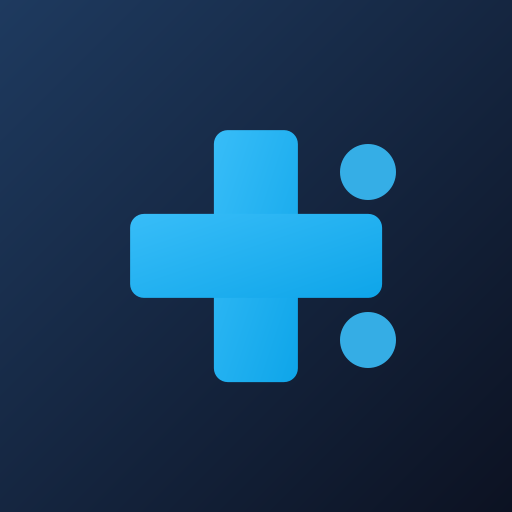
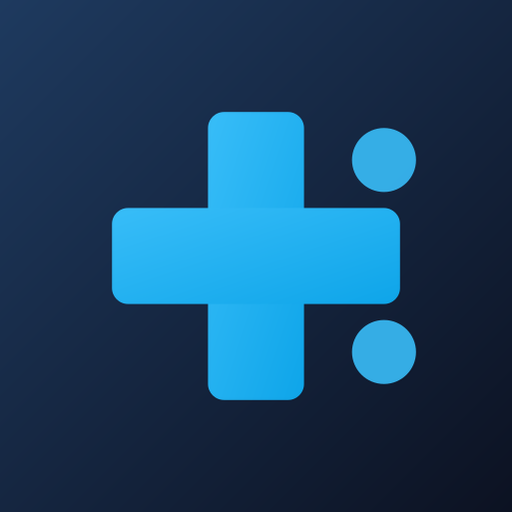
refactor(icones): migrer sur le générateur du socle, et une seule icône Apple (#73)
`scripts/generate-icons.mjs` était la copie locale que `pwa-icons` du socle
remplace. Elle traînait trois choses.

UN SECOND DESSIN, ÉCRIT EN DUR. Le maskable était fabriqué en RÉÉCRIVANT
la croix, les pastilles et les deux dégradés dans un gabarit de chaîne —
une copie de `favicon.svg` qui n'avait aucun moyen de la suivre. Le dessin
vit maintenant dans `public/icon-maskable.svg`, avec DEUX différences
assumées : le `rx` du fond disparaît, et le voile de brillance aussi.

Ce voile — un `rect` blanc à 8 % d'opacité, lui-même arrondi — est ce qui
débordait : son coin tombe à 30,6 du centre pour une limite à 25,6 en
repère 64. La croix, elle, culmine à 19,0 et les pastilles à 24,0. Le
script insérait donc TOUT à 87,5 % pour se protéger du voile, pas de la
croix. Sans lui, aucune réduction n'est nécessaire — mesuré sur le rendu :
191,7 px pour une zone sûre à 204,8, treize pixels de marge.

UNE ICÔNE APPLE QUE RIEN NE PRODUISAIT. `public/apple-touch-icon.png`
n'était listée par aucun script : un fichier orphelin, que personne ne
pouvait régénérer à l'identique. Elle sort désormais de la même source que
le maskable.

CINQ BALISES `apple-touch-icon`, DONT QUATRE TRANSPARENTES. `index.html`
déclarait aussi `icon-192/256/384/512` en `apple-touch-icon`, avec leur
taille. Ce sont les icônes `purpose: any` du manifeste, et elles portent
des coins transparents — mesuré, alpha 0. iOS n'accepte pas la
transparence et la comble lui-même ; il choisit en outre la taille
[…]

Changed region(s): [[0.2188, 0.2188, 0.8125, 0.7812]]

diff --git a/index.html b/index.html
@@ -51,7 +51,7 @@
     <link rel="icon" href="%BASE_URL%favicon.svg" type="image/svg+xml" />
     <link
       rel="icon"
-      href="%BASE_URL%favicon-96.png"
+      href="%BASE_URL%icon-96.png"
       sizes="96x96"
       type="image/png"
     />
@@ -61,27 +61,21 @@
       sizes="192x192"
       type="image/png"
     />
+    <!--
+      UNE SEULE ICÔNE APPLE, ET C'EST LA SEULE QUI SOIT OPAQUE.
+
+      Il y en avait cinq : celle-ci, plus `icon-192/256/384/512` déclarées en
+      `apple-touch-icon` avec leur taille. Ces quatre-là sont les icônes
+      `purpose: any` du manifeste, et elles portent des COINS TRANSPARENTS —
+      mesuré, alpha 0. iOS n'accepte pas la transparence : il la comble
+      lui-même, historiquement par du noir. Il choisit d'ailleurs la taille
+      déclarée la plus proche de celle qu'il veut (180 sur un iPhone récent),
+      donc il prenait volontiers la 192 : un cadre sombre autour de la tuile.
+
+      `apple-touch-icon.png` fait 180 px, sort de `icon-maskable.svg` et n'a pas
+      un pixel transparent. C'est tout ce dont iOS a besoin.
+    -->
     <link rel="apple-touch-icon" href="%BASE_URL%apple-touch-icon.png" />
-    <link
-      rel="apple-touch-icon"
-      sizes="192x192"
-      href="%BASE_URL%icon-192.png"
-    />
-    <link
-      rel="apple-touch-icon"
-      sizes="256x256"
-      href="%BASE_URL%icon-256.png"
-    />
-    <link
-      rel="apple-touch-icon"
-      sizes="384x384"
-      href="%BASE_URL%icon-384.png"
-    />
-    <link
-      rel="apple-touch-icon"
-      sizes="512x512"
-      href="%BASE_URL%icon-512.png"
-    />
     <link rel="manifest" href="%BASE_URL%manifest.webmanifest" />
     <title>Mister CIM10</title>
   </head>
